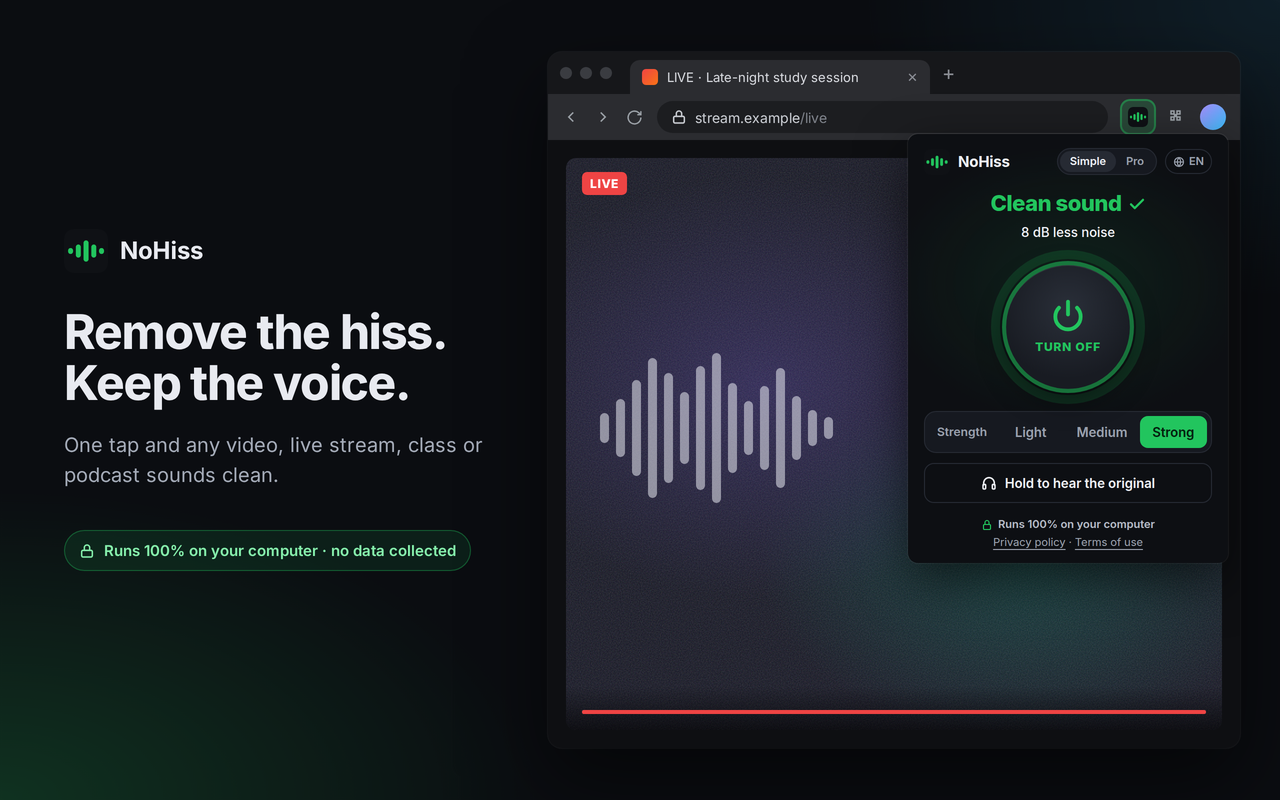
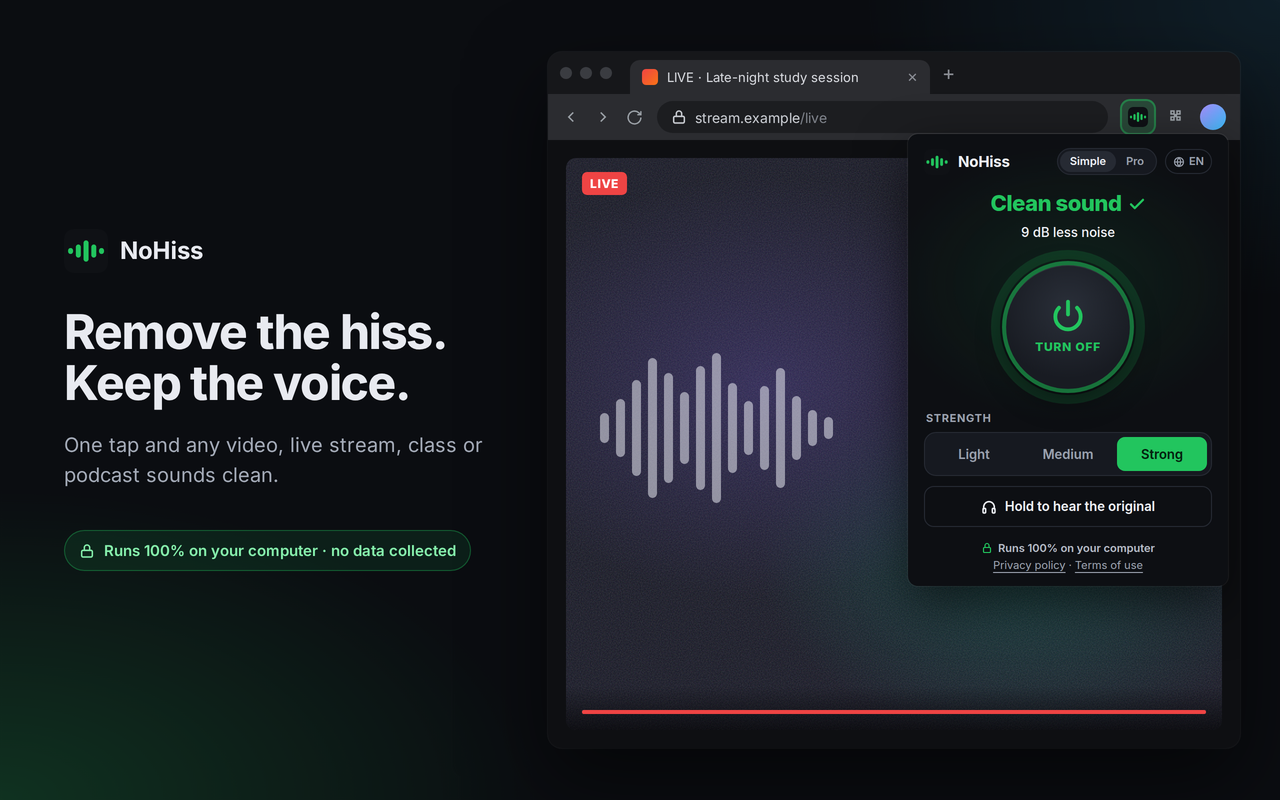
fix(popup): move the Strength label above the presets
Inside the box it looked like a fourth button.

Changed region(s): [[0.6875, 0.5, 0.9688, 0.75]]

diff --git a/popup/popup.css b/popup/popup.css
@@ -285,23 +285,32 @@ h1 { margin: 0; font-size: 15px; font-weight: 700; letter-spacing: -0.01em; }
 /* ---------- Simple: strength presets ---------- */
 
 .simple { margin-top: 10px; }
+.caption {
+  margin: 0 0 6px 2px;
+  color: var(--muted);
+  font-size: 11px;
+  font-weight: 700;
+  letter-spacing: 0.06em;
+  text-transform: uppercase;
+  user-select: none;
+}
 .presets {
   display: grid;
-  grid-template-columns: auto 1fr 1fr 1fr;
-  align-items: center;
+  grid-template-columns: 1fr 1fr 1fr;
   gap: 4px;
-  padding: 4px 4px 4px 12px;
+  padding: 4px;
   background: var(--card);
   border: 1px solid var(--line);
   border-radius: 12px;
+  user-select: none;
 }
-.presets span { margin-inline-end: 6px; color: var(--muted); font-weight: 600; font-size: 12px; }
 .presets button {
-  padding: 7px 4px;
+  padding: 8px 4px;
   background: none;
   color: var(--muted);
   border-radius: 8px;
 }
+.presets button:hover { color: var(--text); }
 .presets button[aria-checked="true"] { background: var(--accent); color: var(--accent-ink); }
 
 .hold {

diff --git a/popup/popup.html b/popup/popup.html
@@ -44,8 +44,8 @@
 
     <!-- Simple: three strength presets. -->
     <section id="simple" class="simple" hidden>
+      <p id="strengthLabel" class="caption" data-i18n="strength.label"></p>
       <div class="presets" role="radiogroup" aria-labelledby="strengthLabel">
-        <span id="strengthLabel" data-i18n="strength.label"></span>
         <button role="radio" data-amount="0.35" data-i18n="strength.light"></button>
         <button role="radio" data-amount="0.6" data-i18n="strength.medium"></button>
         <button role="radio" data-amount="0.85" data-i18n="strength.strong"></button>
